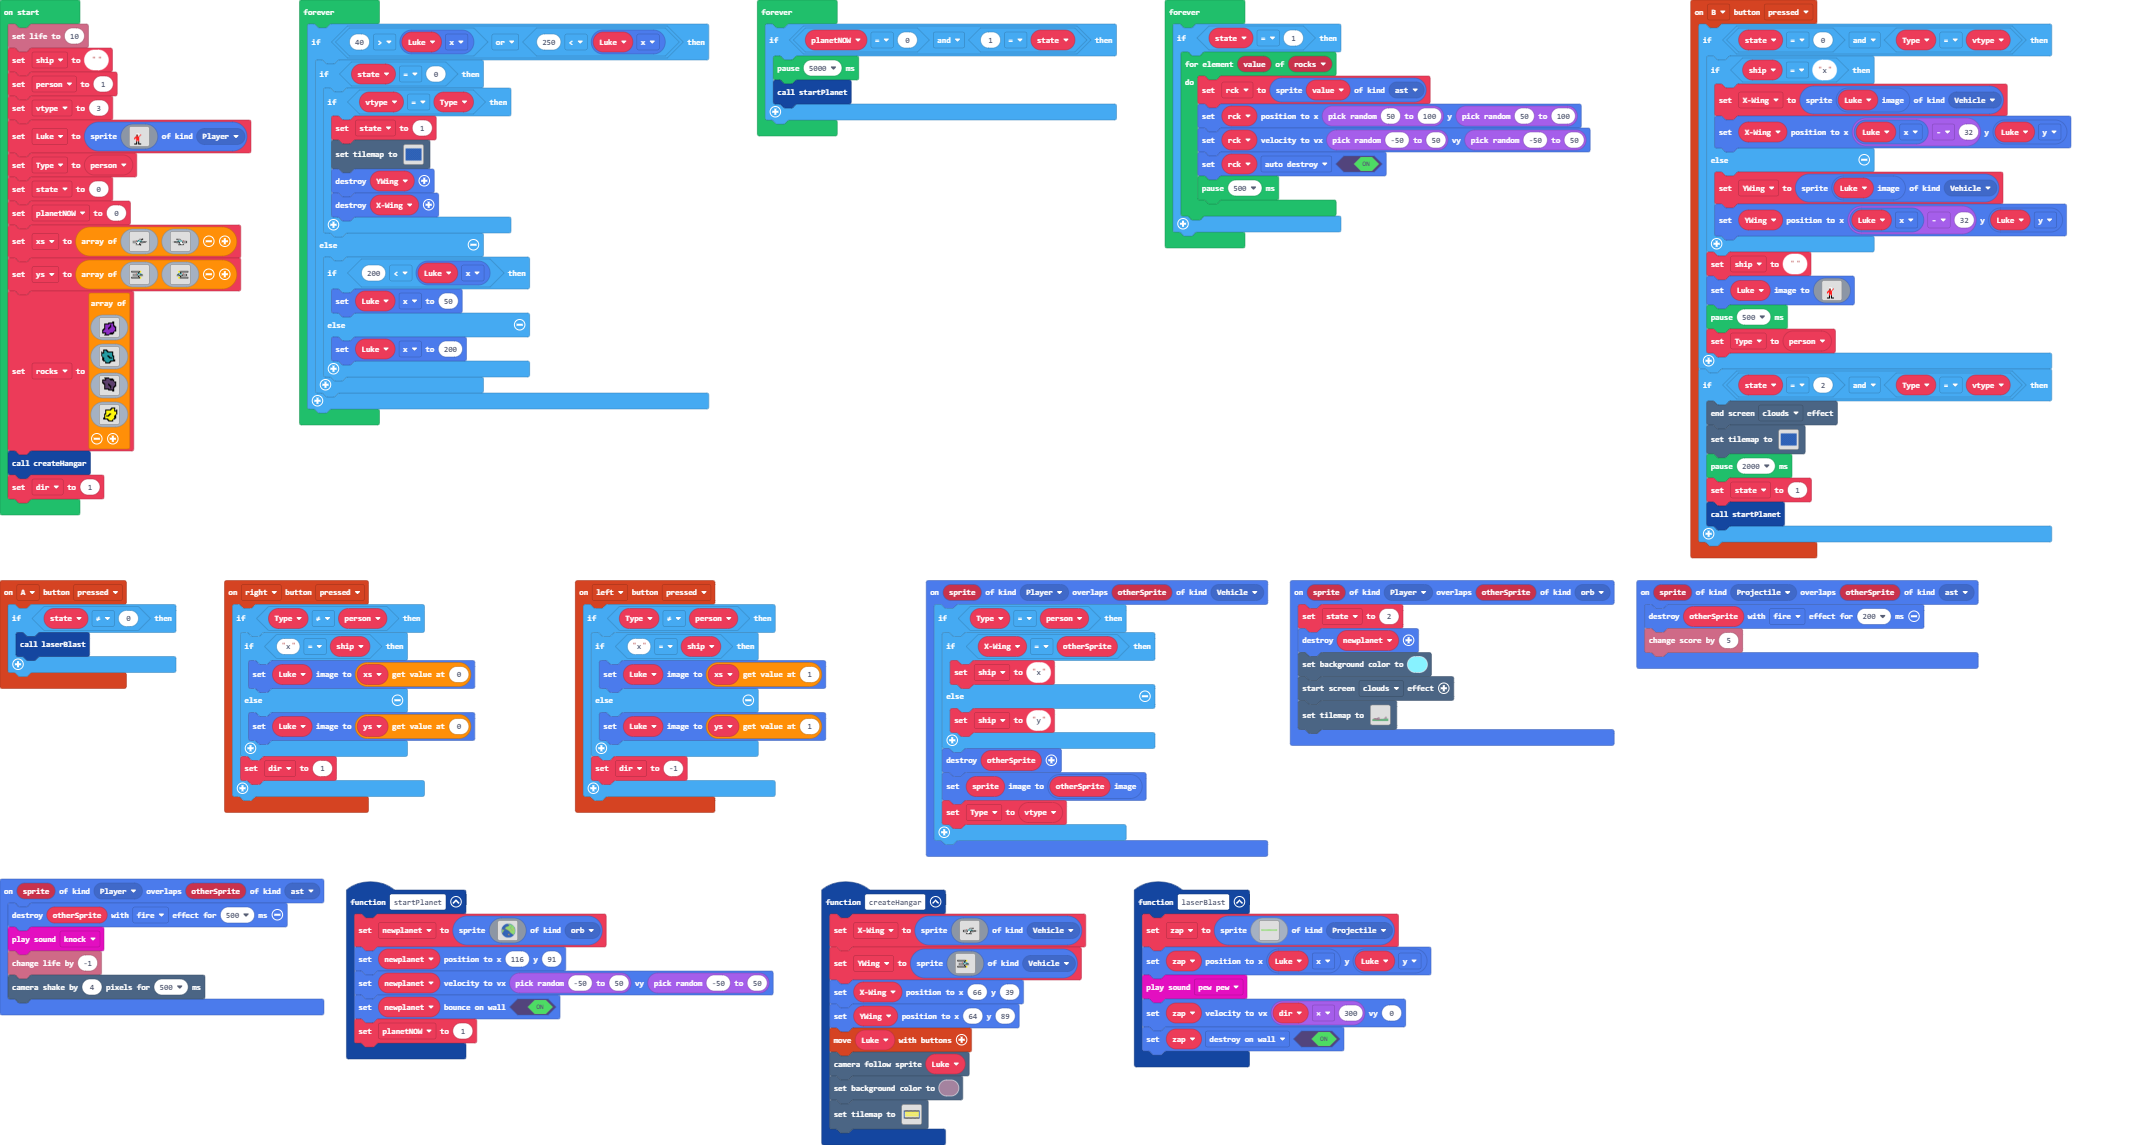
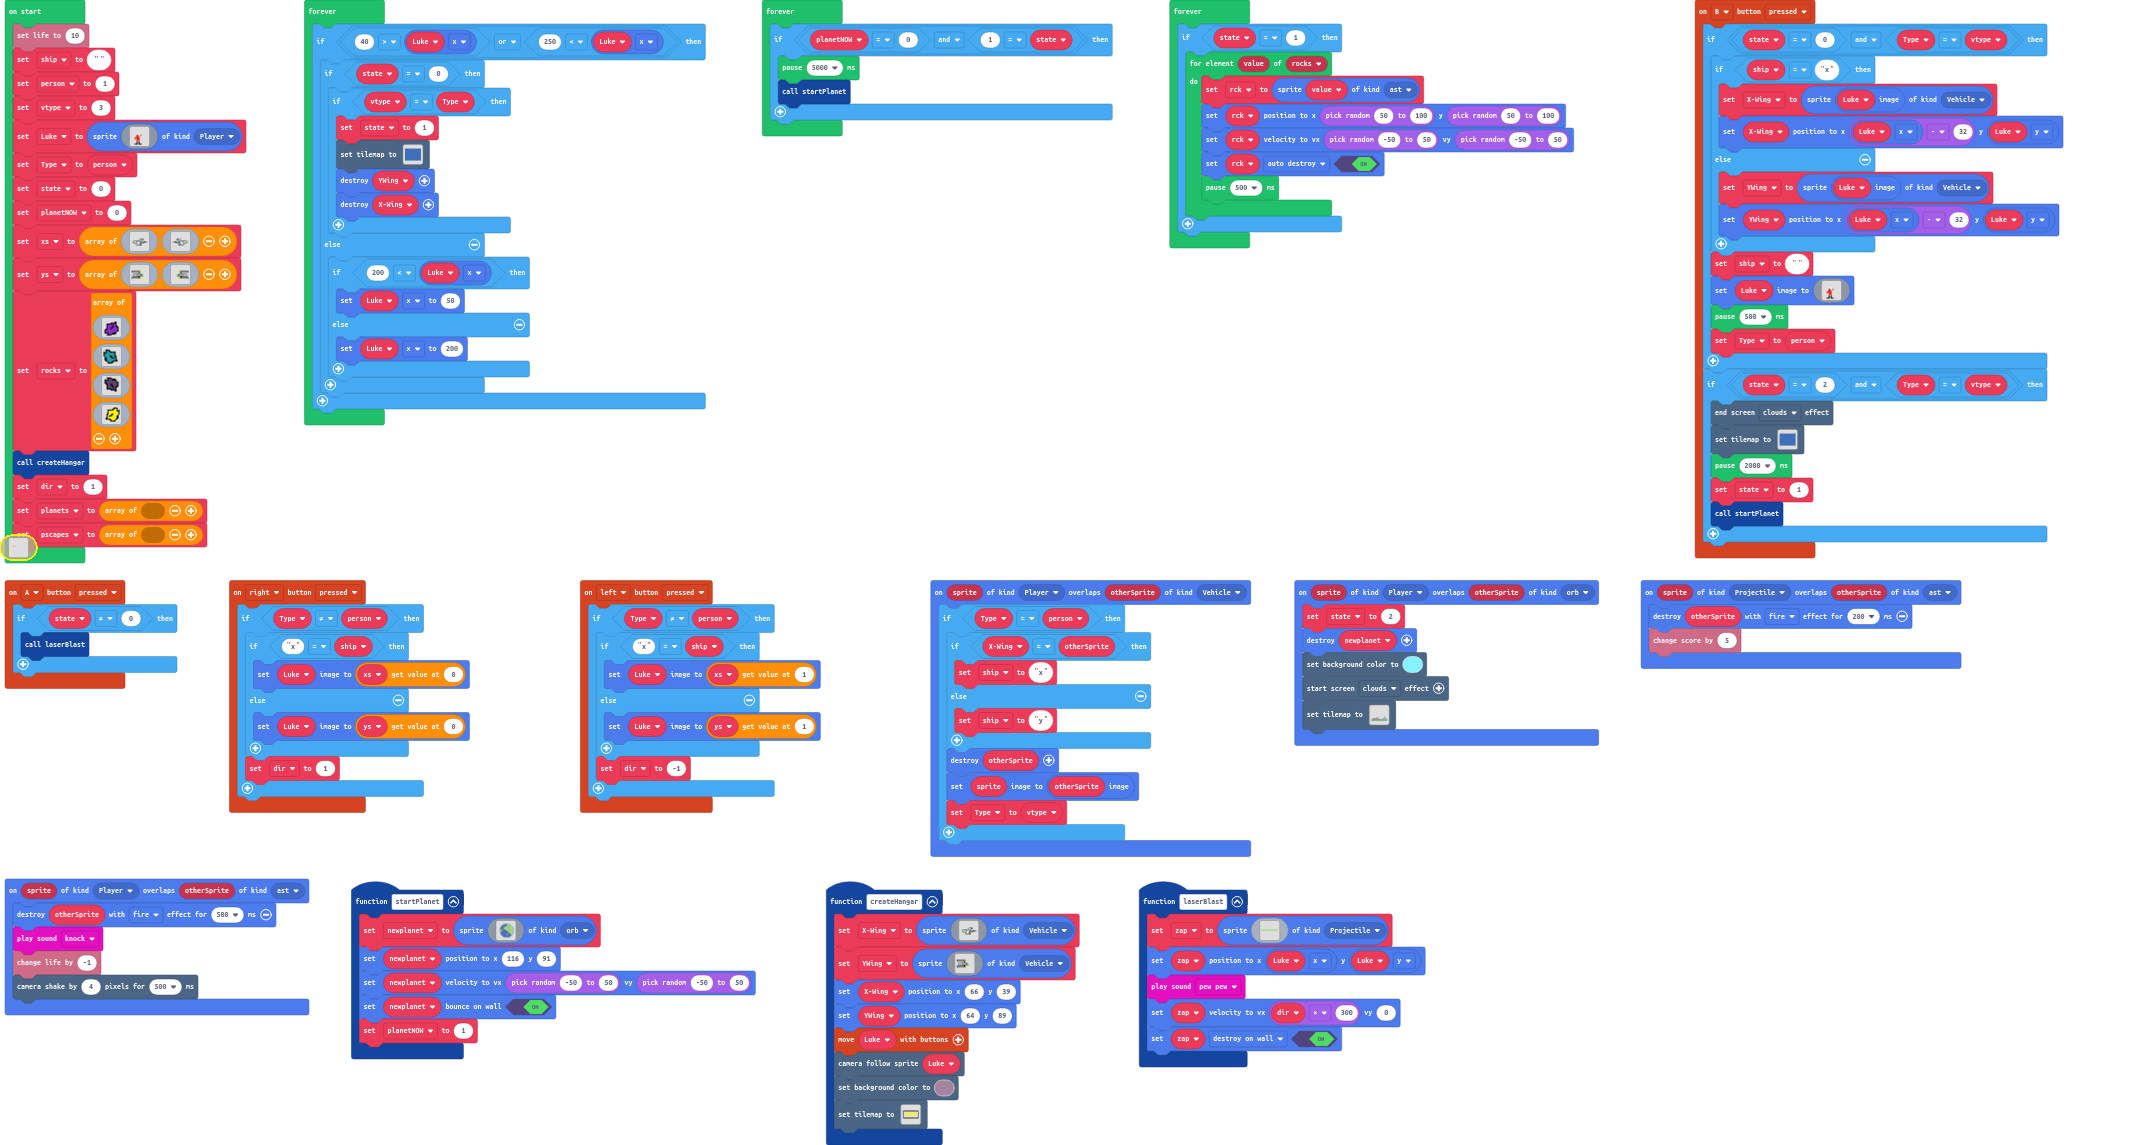
Update main.blocks, main.ts, tilemap.g.jres, tilemap.g.ts, images.g.jres, images.g.ts

diff --git a/tilemap.g.ts b/tilemap.g.ts
@@ -71,46 +71,74 @@ namespace myTiles {
 ........................................
 ........................................
 `, [myTiles.transparency16,myTiles.tile9], TileScale.Sixteen);
-            case "level2":
-            case "level2":return tiles.createTilemap(hex`1000100000000000000000000000000000000000000000000000000000000000000000000000000000000000000000000000000000000000000000000000000000000000000000000000000000000000000000000000000000000000000000000000000000000000000000000000000000000000000000000000000000000000000000000000000000000000000000000000000000000000000000000000000000000000000000000000000000000000000000000000000000000000000000000000000000000000000000000000000000000000000000000000000000000000000000000000000000000000000000000000000000000000000000000000000000000000`, img`
-. . . . . . . . . . . . . . . . 
-. . . . . . . . . . . . . . . . 
-. . . . . . . . . . . . . . . . 
-. . . . . . . . . . . . . . . . 
-. . . . . . . . . . . . . . . . 
-. . . . . . . . . . . . . . . . 
-. . . . . . . . . . . . . . . . 
-. . . . . . . . . . . . . . . . 
-. . . . . . . . . . . . . . . . 
-. . . . . . . . . . . . . . . . 
-. . . . . . . . . . . . . . . . 
-. . . . . . . . . . . . . . . . 
-. . . . . . . . . . . . . . . . 
-. . . . . . . . . . . . . . . . 
-. . . . . . . . . . . . . . . . 
-. . . . . . . . . . . . . . . . 
-`, [myTiles.transparency16], TileScale.Sixteen);
-            case "level3":
-            case "level3":return tiles.createTilemap(hex`1000100000000000000000000000000000000000000000000000000000000000000000000000000000000000000000000000000000000000000000000000000000000000000000000000000000000000000000000000000000000000000000000000000000000000000000000000000000000000000000000000000000000000000000000000000000000000000000000000000000000000000000000000000000000000000000000000000000000000000000000000000000000000000000000000000000000000000000000000000000000000000000000000000000000000000000000000000000000000000000000000000000000000000000000000000000000000`, img`
-. . . . . . . . . . . . . . . . 
-. . . . . . . . . . . . . . . . 
-. . . . . . . . . . . . . . . . 
-. . . . . . . . . . . . . . . . 
-. . . . . . . . . . . . . . . . 
-. . . . . . . . . . . . . . . . 
-. . . . . . . . . . . . . . . . 
-. . . . . . . . . . . . . . . . 
-. . . . . . . . . . . . . . . . 
-. . . . . . . . . . . . . . . . 
-. . . . . . . . . . . . . . . . 
-. . . . . . . . . . . . . . . . 
-. . . . . . . . . . . . . . . . 
-. . . . . . . . . . . . . . . . 
-. . . . . . . . . . . . . . . . 
-. . . . . . . . . . . . . . . . 
-`, [myTiles.transparency16], TileScale.Sixteen);
             case "planetscape1":
[1 lines of base64/hex data omitted]
+........................................
+........................................
+........................................
+........................................
+........................................
+........................................
+........................................
+........................................
+........................................
+........................................
+........................................
+........................................
+........................................
+........................................
+........................................
+........................................
+........................................
+........................................
+........................................
+........................................
+........................................
+........................................
+........................................
+....2222222222222......222..............
+..222.......22..222222222222222222222222
+222................................22222
+........................................
+........................................
+........................................
+........................................
+`, [myTiles.transparency16,sprites.builtin.forestTiles22,sprites.builtin.forestTiles24,sprites.builtin.forestTiles23,sprites.builtin.forestTiles26,sprites.castle.rock0], TileScale.Sixteen);
+            case "planetscape2":
[1 lines of base64/hex data omitted]
+........................................
+........................................
+........................................
+........................................
+........................................
+........................................
+........................................
+........................................
+........................................
+........................................
+........................................
+........................................
+........................................
+........................................
+........................................
+........................................
+........................................
+........................................
+........................................
+........................................
+........................................
+........................................
+........................................
+....2222222222222......222..............
+..222.......22..222222222222222222222222
+222................................22222
+........................................
+........................................
+........................................
+........................................
+`, [myTiles.transparency16,sprites.builtin.forestTiles22,sprites.builtin.forestTiles24,sprites.builtin.forestTiles23,sprites.builtin.forestTiles26,sprites.castle.rock0], TileScale.Sixteen);
+            case "planetscape3":
[1 lines of base64/hex data omitted]
 ........................................
 ........................................
 ........................................

diff --git a/images.g.ts b/images.g.ts
@@ -258,6 +258,132 @@ f 6 6 6 6 6 f f 6 6 6 f f . . .
 ................................
 ................................
 `;
+            case "image12":
+            case "planet0":return img`
+............................................................
+............................................................
+............................................................
+............................................................
+............................................................
+............................................................
+............................................................
+......................444444444444444.......................
+..................e222777777777777ee4444....................
+.................4eee7777772277777e4444444..................
+................4444ee77777422477ee44444444.................
+..............44444444ee77777277ee44444444444...............
+.............44444444444ee777277e4444444444444..............
+............4444444444444e777277e44444444444444.............
+...........444444444444444e77777e444444444444444............
+..........44444444444444444ee777e4444444444444444...........
+.........44444444444444444444e77e44444444444444444..........
+........4444444444444444444444e7e444444444444444444.........
+........44444444444444444444444ee444444444444444444.........
+.......444444444444444444444444e44444444444444444444........
+......44444444444444444444444444e4444eee4444444444444.......
+......444444444444444444444444444444e88ee444444444444.......
+.....44444444444444444444444444444ee88888e444444444444......
+.....44444444444444444444444444444e8888888e44444444444......
+.....44444444444444444444444444444e8888888e44444444444......
+....44444444444444444444444444444e888488888e44444444444.....
+....44444444444444444444444444444e8884888888e4444444444.....
+....44444444444444444444444444444e8884888888e4444444444.....
+....4444444444444444444444444444e88848888888e4444444444.....
+....444444444444444444444444444e8884888888888e4444444e4.....
+....44444444442244444444444444e88884888888888e4444444e4.....
+....44444444422224444444444444e88884888888888e444444e84.....
+....4444444422772244444444444e8888488888888888e44444e84.....
+....4444444424447244444444444e8888488888888888e4444e884.....
+....444444442774224444444444e888884888888888888ee44e884.....
+....44444442277724444444444e88888488888888888888e4e8884.....
+....4444444222222444444444ee888884888888888888888ee8884.....
+....444444444444444444444e88888884888888888888888888884.....
+....44444444444444444444ee88888848888888888888888888884.....
+....444444444444444444ee8888888848888866888488888888864.....
+.....4444444444444444ee8888888844888868664848888888868......
+.....444444444444444e888888888448888868466448888888668......
+.....444444444444444e888888888488888688486668888866678......
+......4444444444444e888888888488888688488886666666888.......
+......444444444444e8888888844888866888488888888888888.......
+.......4444444444e8888888888888868888848888888888888........
+........44444444ee888888888888886888848888888888888.........
+........44444444e8888888888888868888848888888888888.........
+.........444444e8888888888888868888848888888888888..........
+..........44444e888888888888888888884888888888888...........
+...........444e888888888888884488884888888888888............
+............44e88888888888844484488488888888888.............
+.............488888888888888888848448888888888..............
+..............8888888888888888888448888888888...............
+................888888888888888888888888888.................
+.................8888888888888888888888888..................
+...................888888888888888888888....................
+......................888888888888888.......................
+............................................................
+............................................................
+`;
+            case "image13":
+            case "planet1":return img`
+............................................................
+............................................................
+..................111111111111111...........................
+...............1111ee111111111111888e.......................
+.............1111111e1111166111111eee1......................
+............11111111ee11466411111ee1111.....................
+..........11111111111ee11611111ee11111111...................
+.........1111111111111e116111ee11111111111..................
+........11111111111111e116111e1111111111111.................
+.......111111111111111e11111e111111111111111................
+......1111111111111111e111ee11111111111111111...............
+.....11111111111111111e11e11111111111111111111..............
+....111111111111111111e1e1111111111111111111111.............
+....111111111111111111ee11111111111111111111111.............
+...11111111111111111111e111111111111111111111111............
+..11111111111111111111e11111111111111111111111111...........
+..1111111111111111e111111111111111111111111111111...........
+.111111111111e11111ee11111111111111111111111111111..........
+.11111111111e1111111e11111111111111111111111111111..........
+.11111111111e1111111e11111111111111111111111111111..........
+11111111111e111114111e11111111111111111111111111111.........
+1111111111e1111114111e11111111111111111111111111111.........
+1111111111e1111114111e11111111111111111111111111111.........
+1111111111e11111114111e1111111111111111111111111111.........
+1e1111111e1111111114111e111111111111111111111111111.........
+1e1111111e11111111141111e11111111111111ee1111111111.........
+11e111111e11111111141111e1111111111111eeee111111111.........
+11e11111e1111111111141111e11111111111ee11ee11111111.........
+111e1111e1111111111141111e11111111111e7111e11111111.........
+111e11ee111111111111411111e1111111111ee111e11111111.........
+1111e1e11111111111111411111e1111111111e111ee1111111.........
+1111ee111111111111111411111ee111111111eeeeee1111111.........
+11111111111111111111141111111e111111111111111111111.........
+11111111111111111111114111111ee11111111111111111111.........
+161111111114111661111141111111111111111111111111111.........
+.8611111111414661611114411111111111111111111111111..........
+.866111111144664161111144111111111e111111111111111..........
+.876661111166614116111114111111111e111111111111111..........
+..811666666611114116111114111111111e1111111111111...........
+..8111111111111141116611114411111111e111111111111...........
+...8111111111111411111611111111111111e1111111111............
+....811111111111141111611111111111111ee11111111.............
+....8111111111111411111611111111111111e11111111.............
+.....8111111111111411111611111111111111e111111..............
+......811111111111411111111111111111111e11111...............
+.......811111111111411114411111111111111e111................
+........81111111111411441444111111111111e11.................
+.........811111111144141111111111111111111..................
+..........8811111111441111111111111111188...................
+............811111111111111111111111118.....................
+.............8811111111111111111111188......................
+...............888111111111111111888........................
+..................888888888888888...........................
+............................................................
+............................................................
+............................................................
+............................................................
+............................................................
+............................................................
+............................................................
+`;
         }
         return null;
     })

diff --git a/main.ts b/main.ts
@@ -136,6 +136,8 @@ assets.image`asteroid2`
 ]
 createHangar()
 dir = 1
+let planets: number[] = []
+let pscapes: number[] = []
 forever(function () {
     if (40 > Luke.x || 250 < Luke.x) {
         if (state == 0) {
